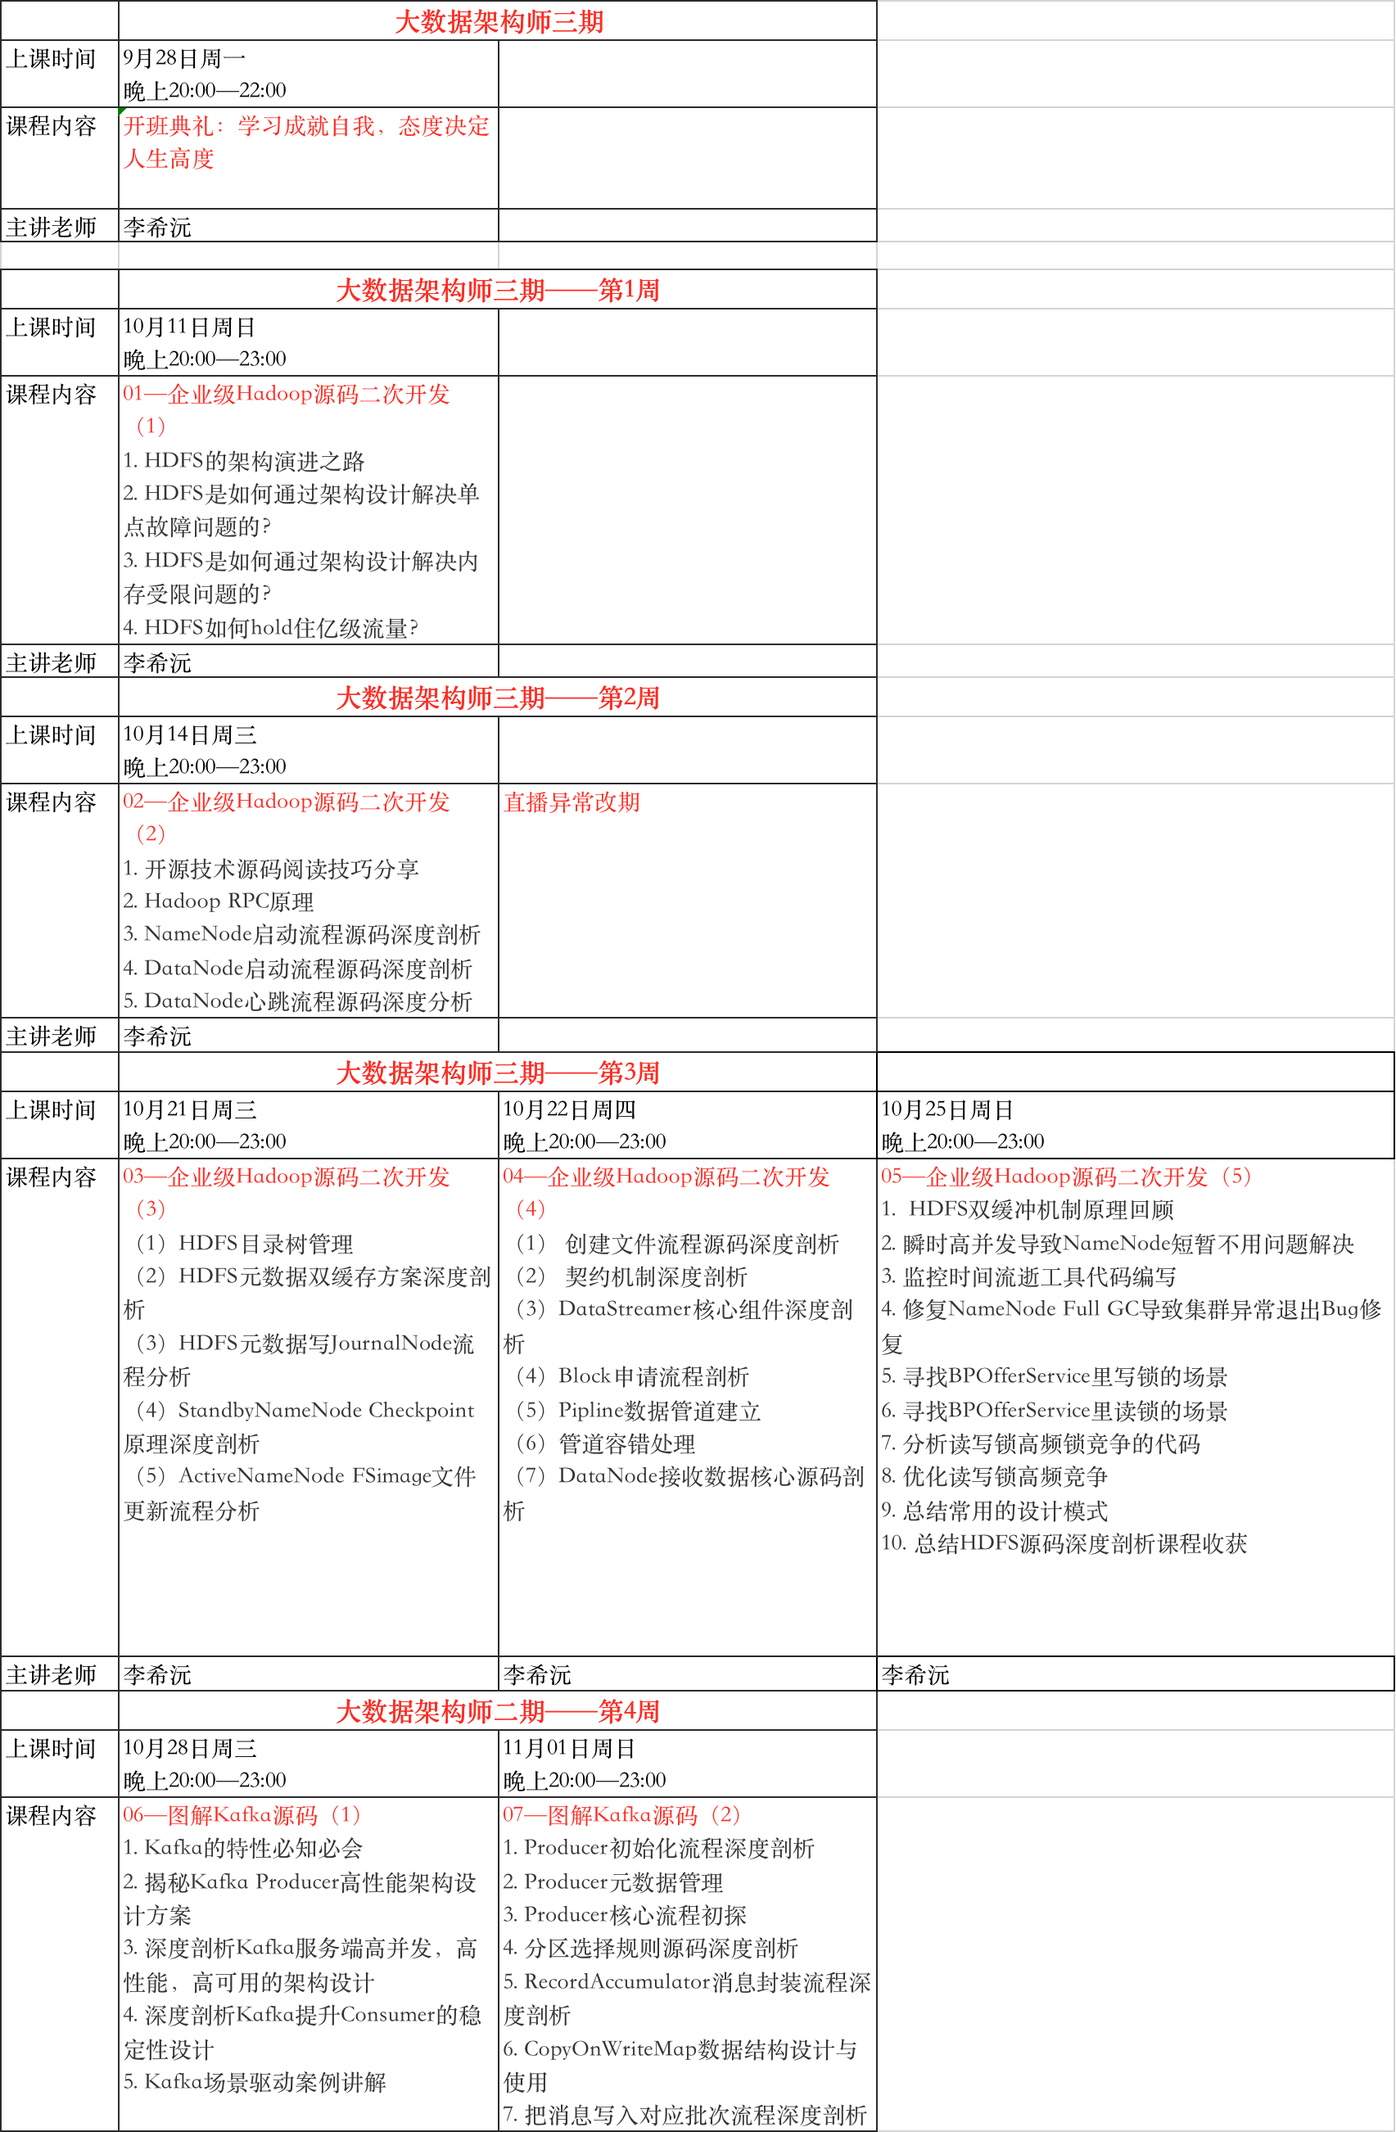
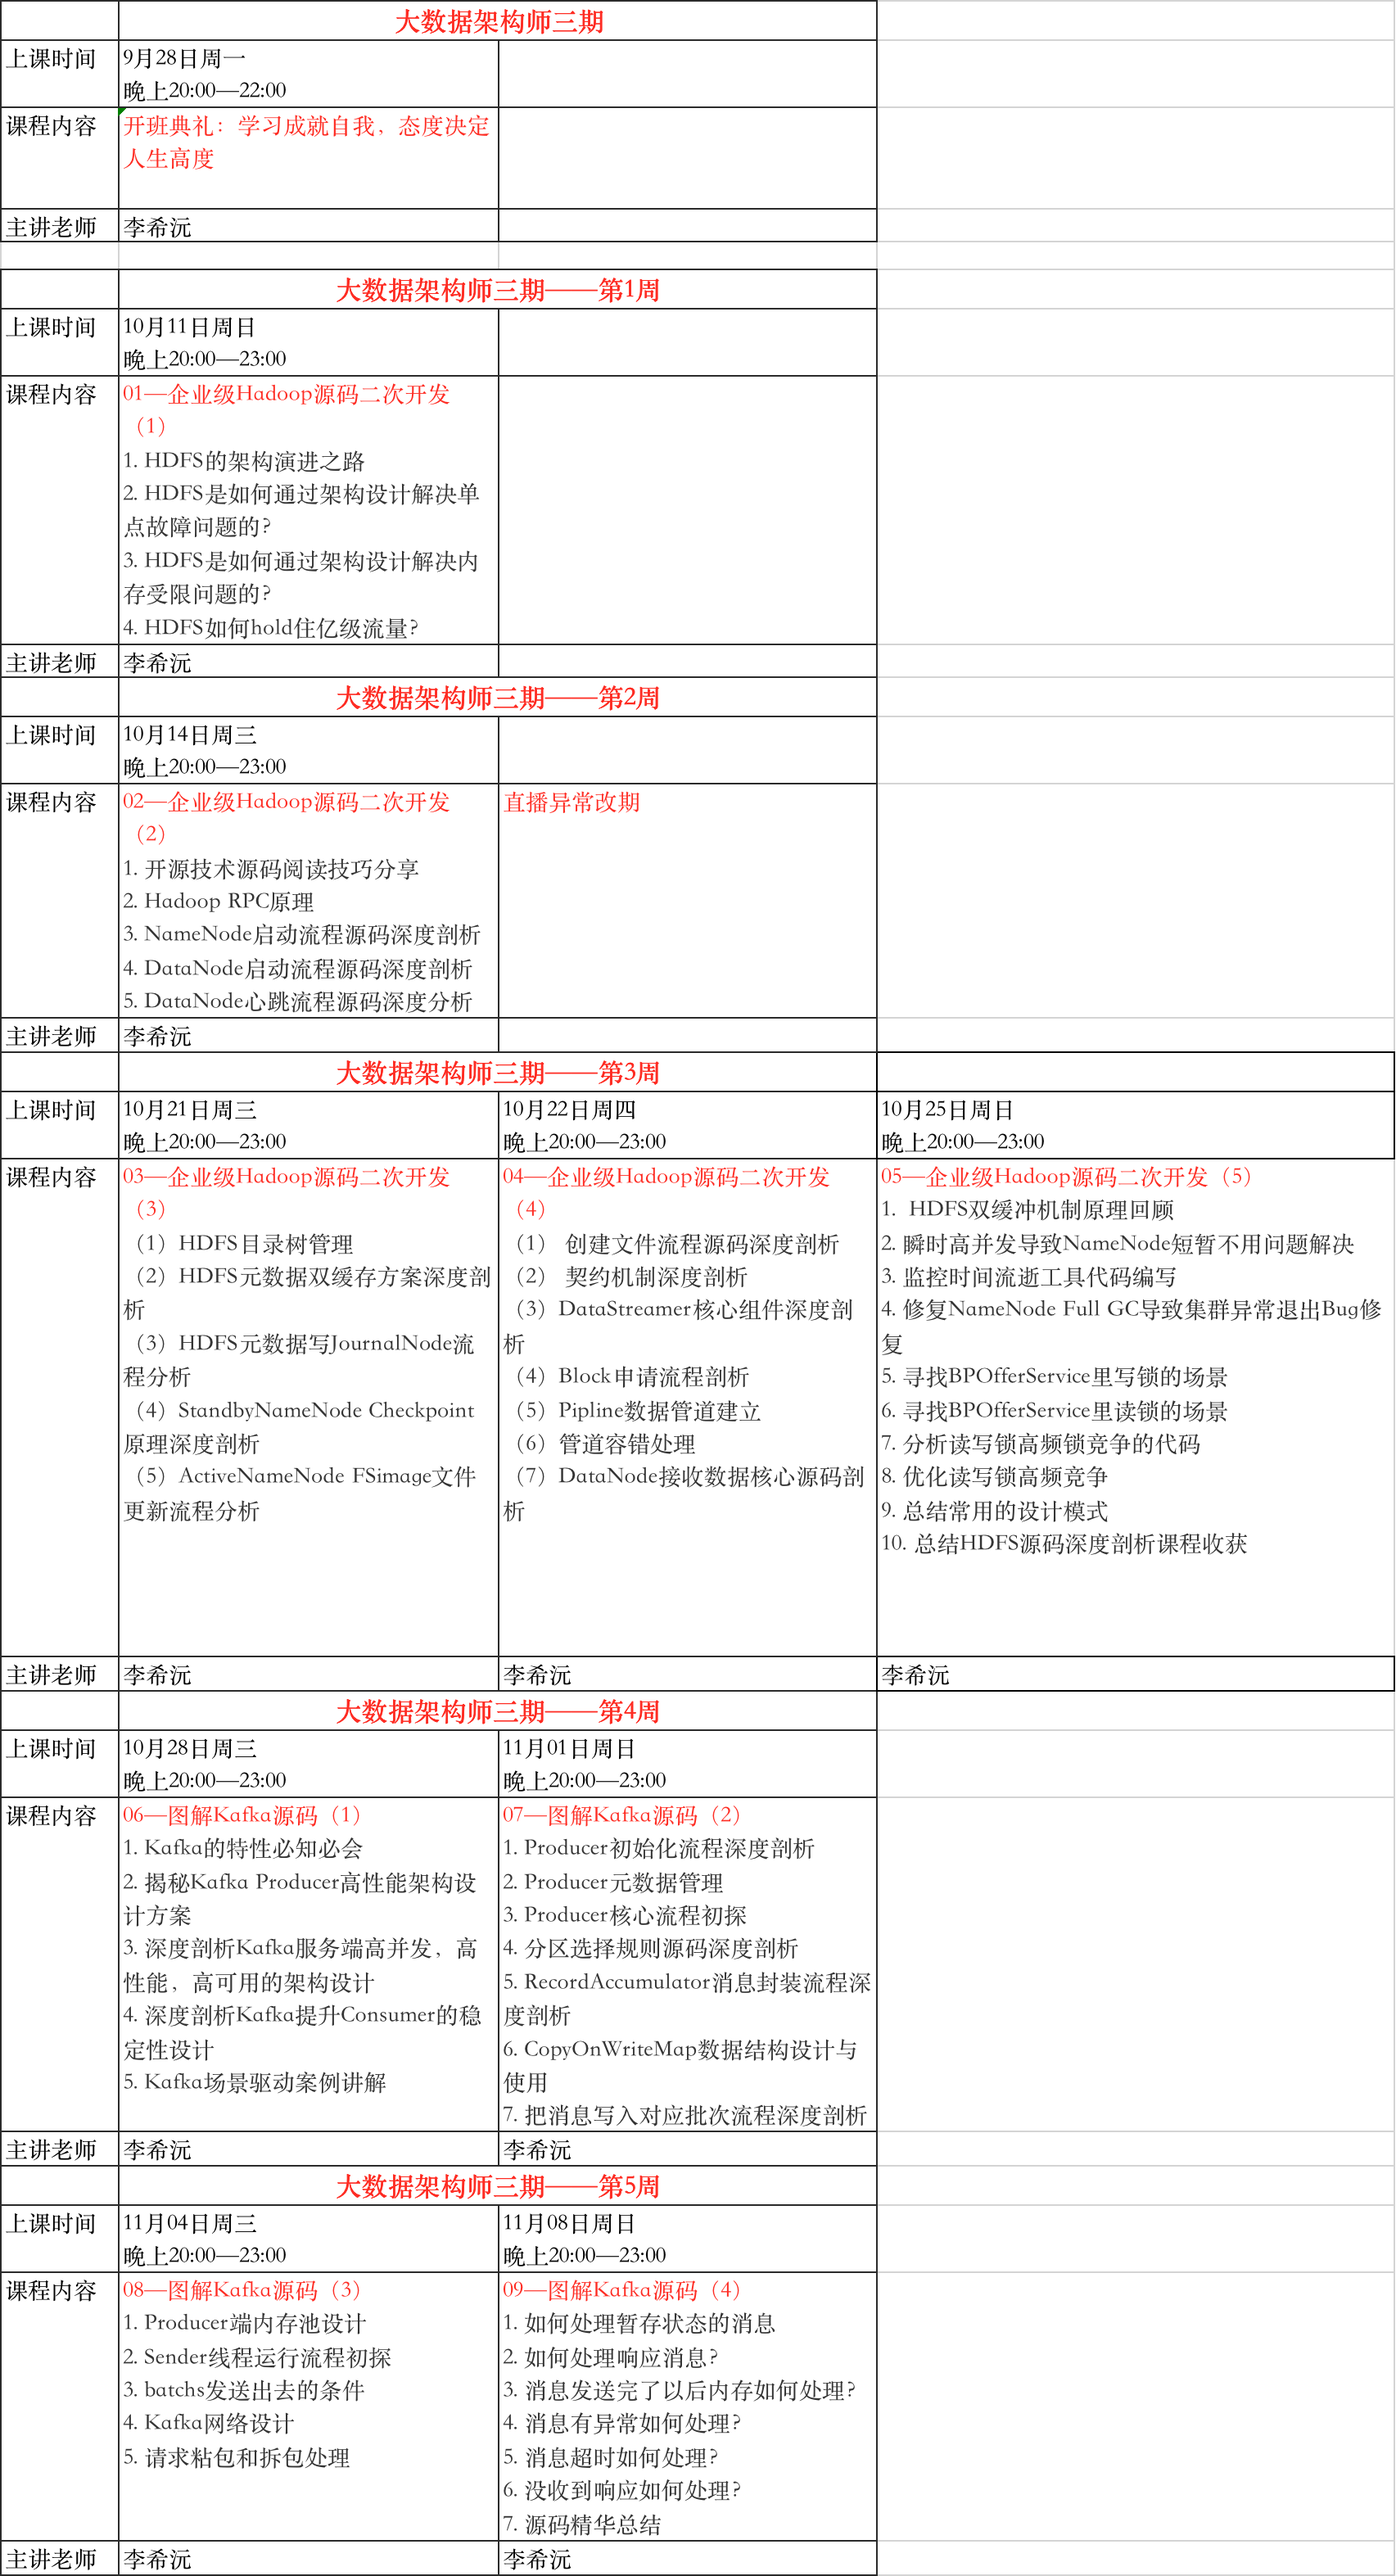
no message

diff --git a/正式课程资料/《大数据架构师三期》录播链接.md b/正式课程资料/《大数据架构师三期》录播链接.md
@@ -46,12 +46,24 @@ https://e.naixuejiaoyu.com/detail/l_5f8e8a8ee4b0e95a89c533a9/4?fromH5=true
 
 
 
-06—企业级Hadoop源码二次开发（6）
+06—图解Kafka源码（1）
 
 https://e.naixuejiaoyu.com/detail/l_5f967ab3e4b0f34a383f717a/4?fromH5=true
 
 
 
-07—企业级Hadoop源码二次开发（7）
+07—图解Kafka源码（2）
 
 https://e.naixuejiaoyu.com/detail/l_5f967cdee4b05845fe2bb088/4?fromH5=true
+
+
+
+08—图解Kafka源码（3）
+
+https://e.naixuejiaoyu.com/detail/l_5f9fb37de4b02f5f9ae41521/4?fromH5=true
+
+
+
+09—图解Kafka源码（4）
+
+https://e.naixuejiaoyu.com/detail/l_5f9fb58be4b0c1f3fbd4b3eb/4?fromH5=true
